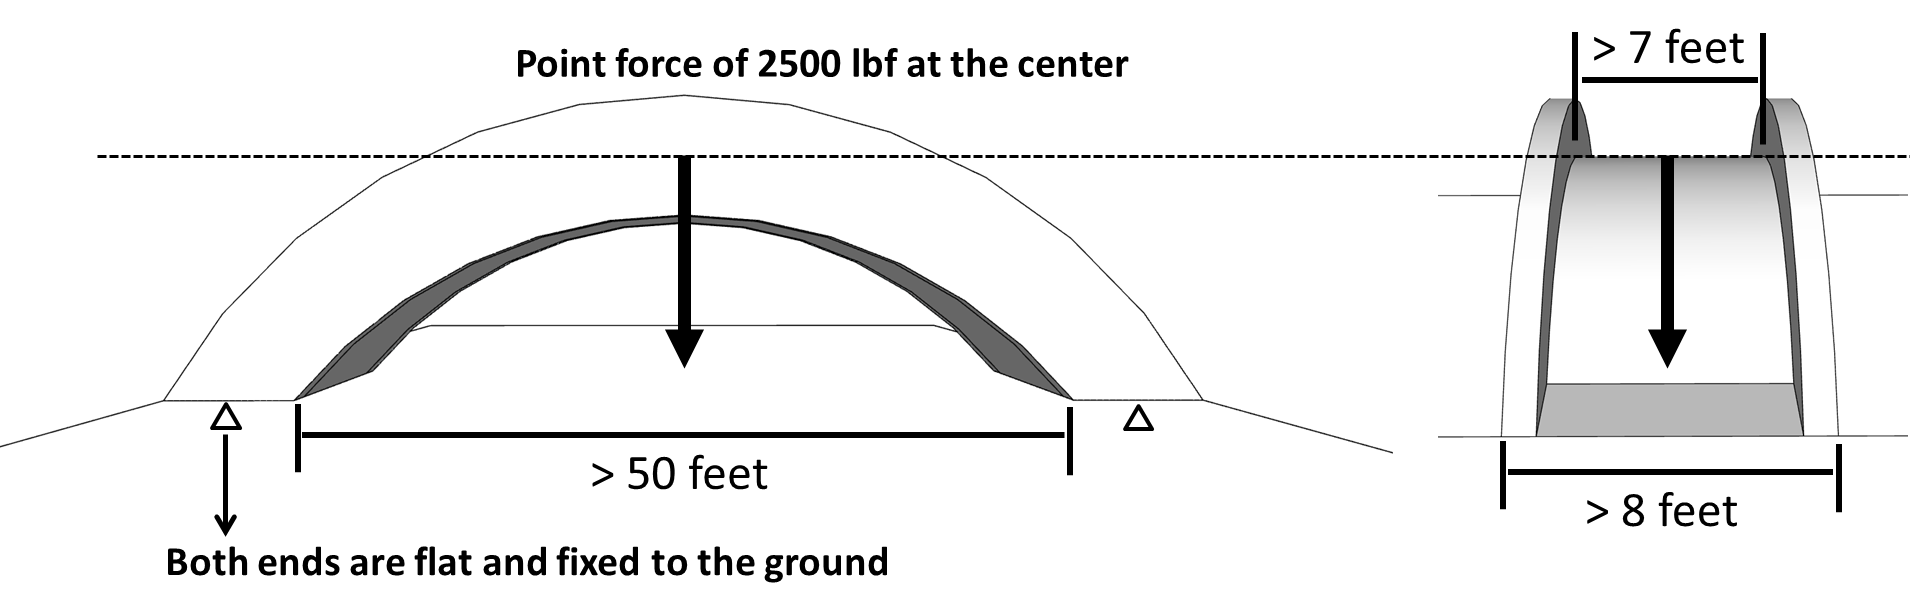
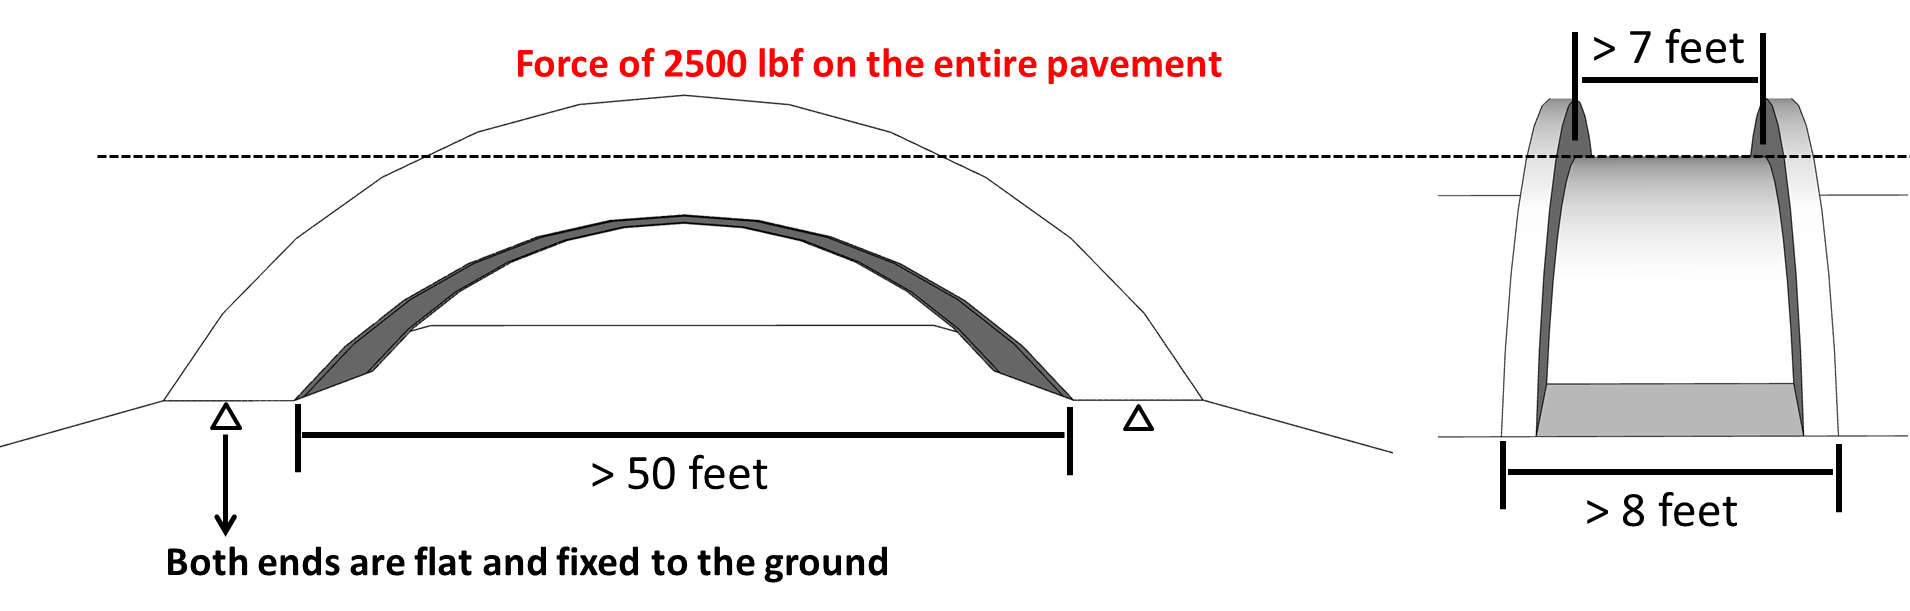
updated design competition2

Changed region(s): [[0.2471, 0.0622, 0.6487, 0.1244], [0.8649, 0.2488, 0.8958, 0.5908], [0.3398, 0.2488, 0.3707, 0.5908]]

diff --git a/_posts/teaching/productdesign/2017-03-20-designcompetition2.md b/_posts/teaching/productdesign/2017-03-20-designcompetition2.md
@@ -2,8 +2,28 @@
 categories: productdesign_competition
 layout: apd_default
 title:  Design Competition 2
-published: false
+published: true
 ---
+<style TYPE="text/css">
+code.has-jax {font: inherit; font-size: 100%; background: inherit; border: inherit;}
+</style>
+<script type="text/x-mathjax-config">
+MathJax.Hub.Config({
+    tex2jax: {
+        inlineMath: [['$','$'], ['\\(','\\)']],
+        skipTags: ['script', 'noscript', 'style', 'textarea', 'pre'] // removed 'code' entry
+    }
+});
+MathJax.Hub.Queue(function() {
+    var all = MathJax.Hub.getAllJax(), i;
+    for(i = 0; i < all.length; i += 1) {
+        all[i].SourceElement().parentNode.className += ' has-jax';
+    }
+});
+</script>
+<script type="text/javascript" src="http://cdn.mathjax.org/mathjax/latest/MathJax.js?config=TeX-AMS-MML_HTMLorMML"></script>
+
+
 # Design Competition 2 - Spring 2017
 
 <img src="http://www.sulisfineart.com/media/catalog/product/cache/1/image/1400x/040ec09b1e35df139433887a97daa66f/m/d/md940.jpg" alt="Drawing" style="height: 400px;"/>
@@ -14,33 +34,40 @@ Image source: SULIS Fine Art
 ## Problem Statement
 Design a bridge using the following criteria:
 
-* **Dimensions**: The bridge needs to be at least 50 feet (15.24 meters) long and at least 8 feet (2.4 meters) wide.
+* **Dimensions**: The bridge needs to be at least 50 feet (15.2 meters) long and at least 8 feet (2.4 meters) wide.
 
-* **Material**: The material needs to be structural steel everywhere, with Young's modulus 200Gpa and Poisson's ratio 0.3.
+* **Material**: For simplicity, the material of the entire bridge is assumed to be structural steel, 
+with Young's modulus 200Gpa, Poisson's ratio 0.3, and density of $7850 kg/m^3$ (use ANSYS default values).
 
-* **Functionality**: The bridge needs to be fully paved with the same material. 
-The pavement needs to be **flat** with a width of at least 7 feet (2.1 meters). See examples below.
+* **Functionality**: The bridge needs to be fully paved with the same material, so that pedestrians can easily pass. 
+The pavement cannot have large positive/negative curvatures (See examples below) and should have a width of at least 7 feet (2.1 meters).
 
 <img src="/_images/tutorial_topopt/bridge1.png" alt="Drawing" style="height: 300px;"/>
 
-* **Boundary conditions**: The two ends of the bridge are fixed in all directions to 
-the flat ground. A downward point load of 2500 lbf (11121 N) is applied to the center of the pavement of the bridge. See figure below.
+* **Boundary conditions**: The two ends of the bridge, which are apart from each other with a distance not smaller than 50 feet (15.2 meters),
+ are fixed in x, y, and z directions to 
+the flat ground. A downward force of 2500 lbf (11121 N) is applied to the entire pavement of the bridge. See figure below.
 
 <img src="/_images/tutorial_topopt/bridge2.png" alt="Drawing" style="height: 300px;"/>
 
-* **Design constraint**: The total mass of the bridge needs to be below 2000 Pound (907 Kg). 
+To apply the force, choose **Force** in ANSYS Mechanical, select all surfaces belonging to the pavement, and define the force
+by **Components**, where you can set the Y component to -11121 N. 
 
-* **Design objective**: The maximum deflection of the bridge needs to be as small as possible.
+* **Simulation**: Use the coarse mesh for your model.
+
+* **Design constraint**: The **total mass** of the bridge needs to be below 55000 Pound (25000 Kg). 
+
+* **Design objective**: The maximum deformation of the bridge in the load direction needs to be as small as possible.
 
 * <a style="color:red">**Please make sure that you create your own design.**</a>
 
 ## Submission
-Please submit the final design in ANSYS format (the .agdb file should contain the geometry and the simulation) 
-along with **all necessary files** in a **zip** to yiren@asu.edu with the file name
-"yourlastnameTeamNumber.zip", e.g., "renTeam0.zip". 
+Please submit the final design in ANSYS format (the .wbpj file should contain the geometry and the simulation) 
+along with the associated folder in a **zip** file to yiren@asu.edu, with the file name
+"yourlastnameTeamNumber.zip", e.g., "renTeam0.zip". If the file is too large, please share it with me through Google Drive.
 
 In the email, please also report the 
-**maximum deflection** value and the **total mass** value. 
-The total mass value can be found under the geometry tab in the ANSYS MODEL. 
+**maximum deflection** and the **total mass** values. 
+The total mass can be found under the geometry tab in ANSYS Mechanical. 
 
 Make sure that the reported numbers are consistent with your model.

diff --git a/_posts/teaching/productdesign/2017-03-12-topopt.md b/_posts/teaching/productdesign/2017-03-12-topopt.md
@@ -59,7 +59,7 @@ function top88(nelx,nely,volfrac,penal,rmin,ft)
 
 The inputs are the number of elements in the x and y directions (```nelx``` and ```nely```, integers), 
 the volume fraction (```volfrac```, this is the number between 0 and 1 that specifies the
-ratio between the volume of the target topology and the maximum volume $nelx \ctimes nely$), the penalty
+ratio between the volume of the target topology and the maximum volume $nelx \times nely$), the penalty
 term for Young's Modulus (```penal```, usually **=3**), the filter radius (```rmin```, usually **=3**), 
 and the method for filtering sensitivities (```ft```, either 1 or 2).
 
